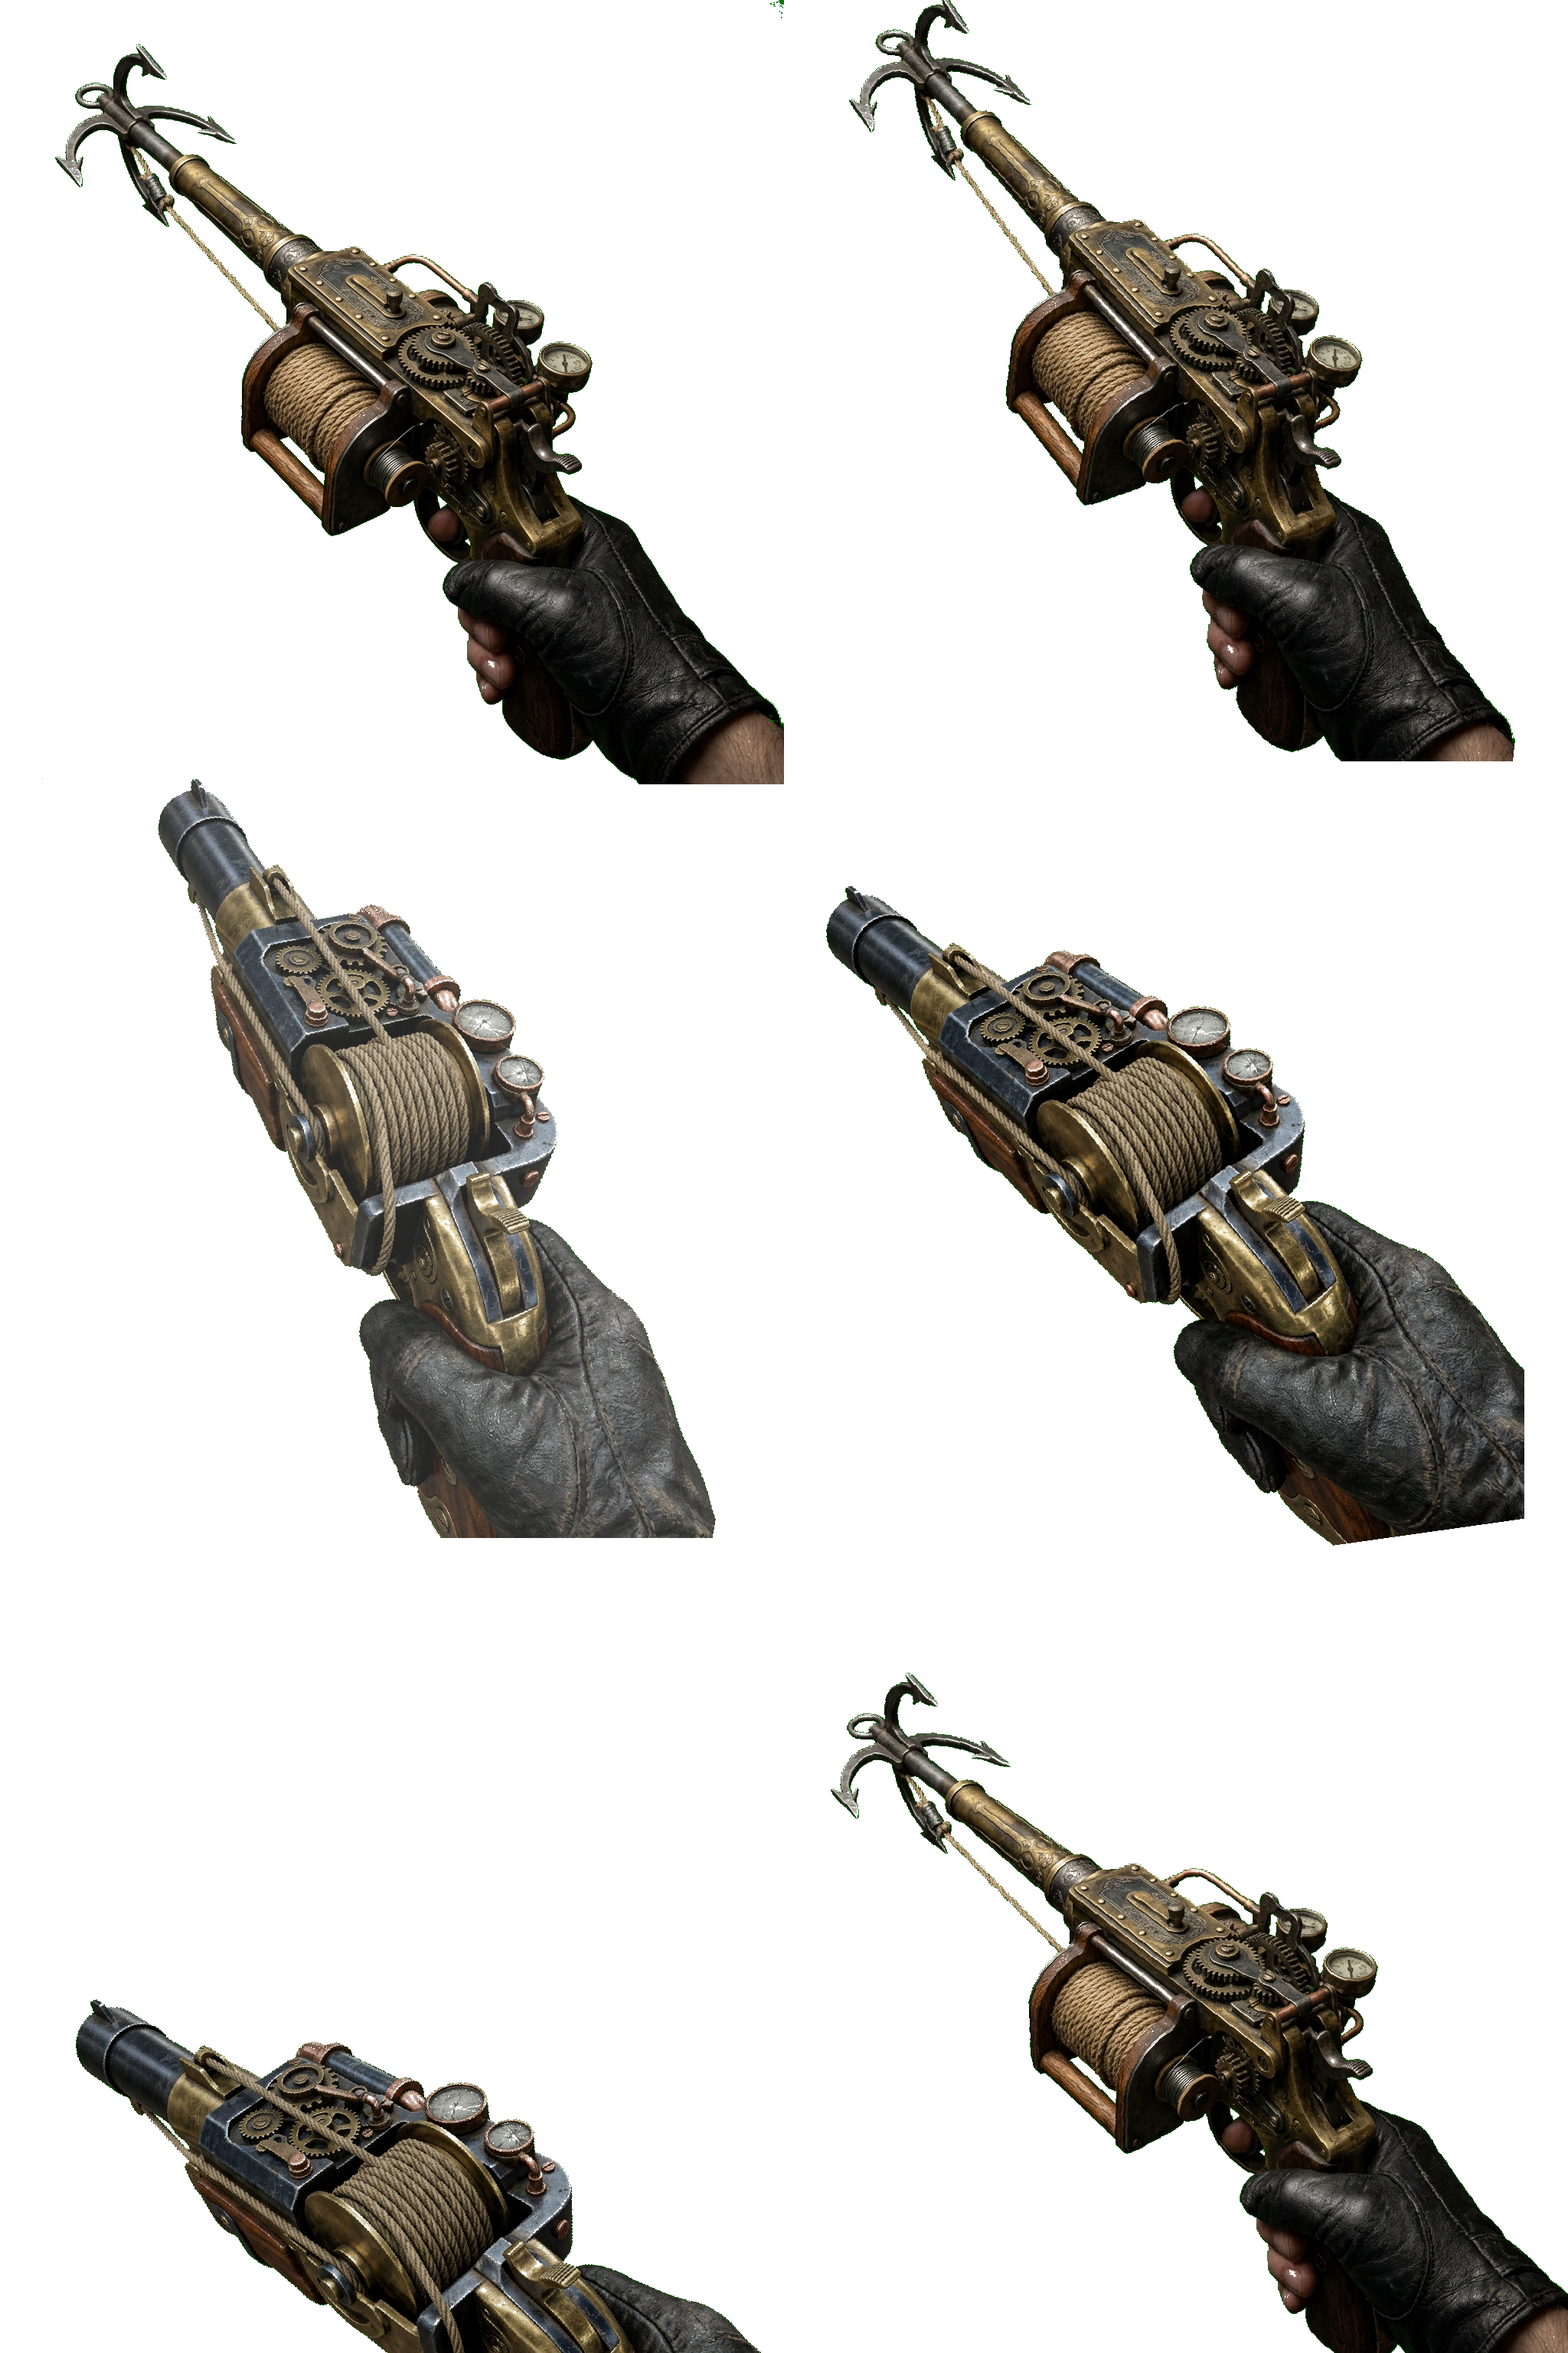
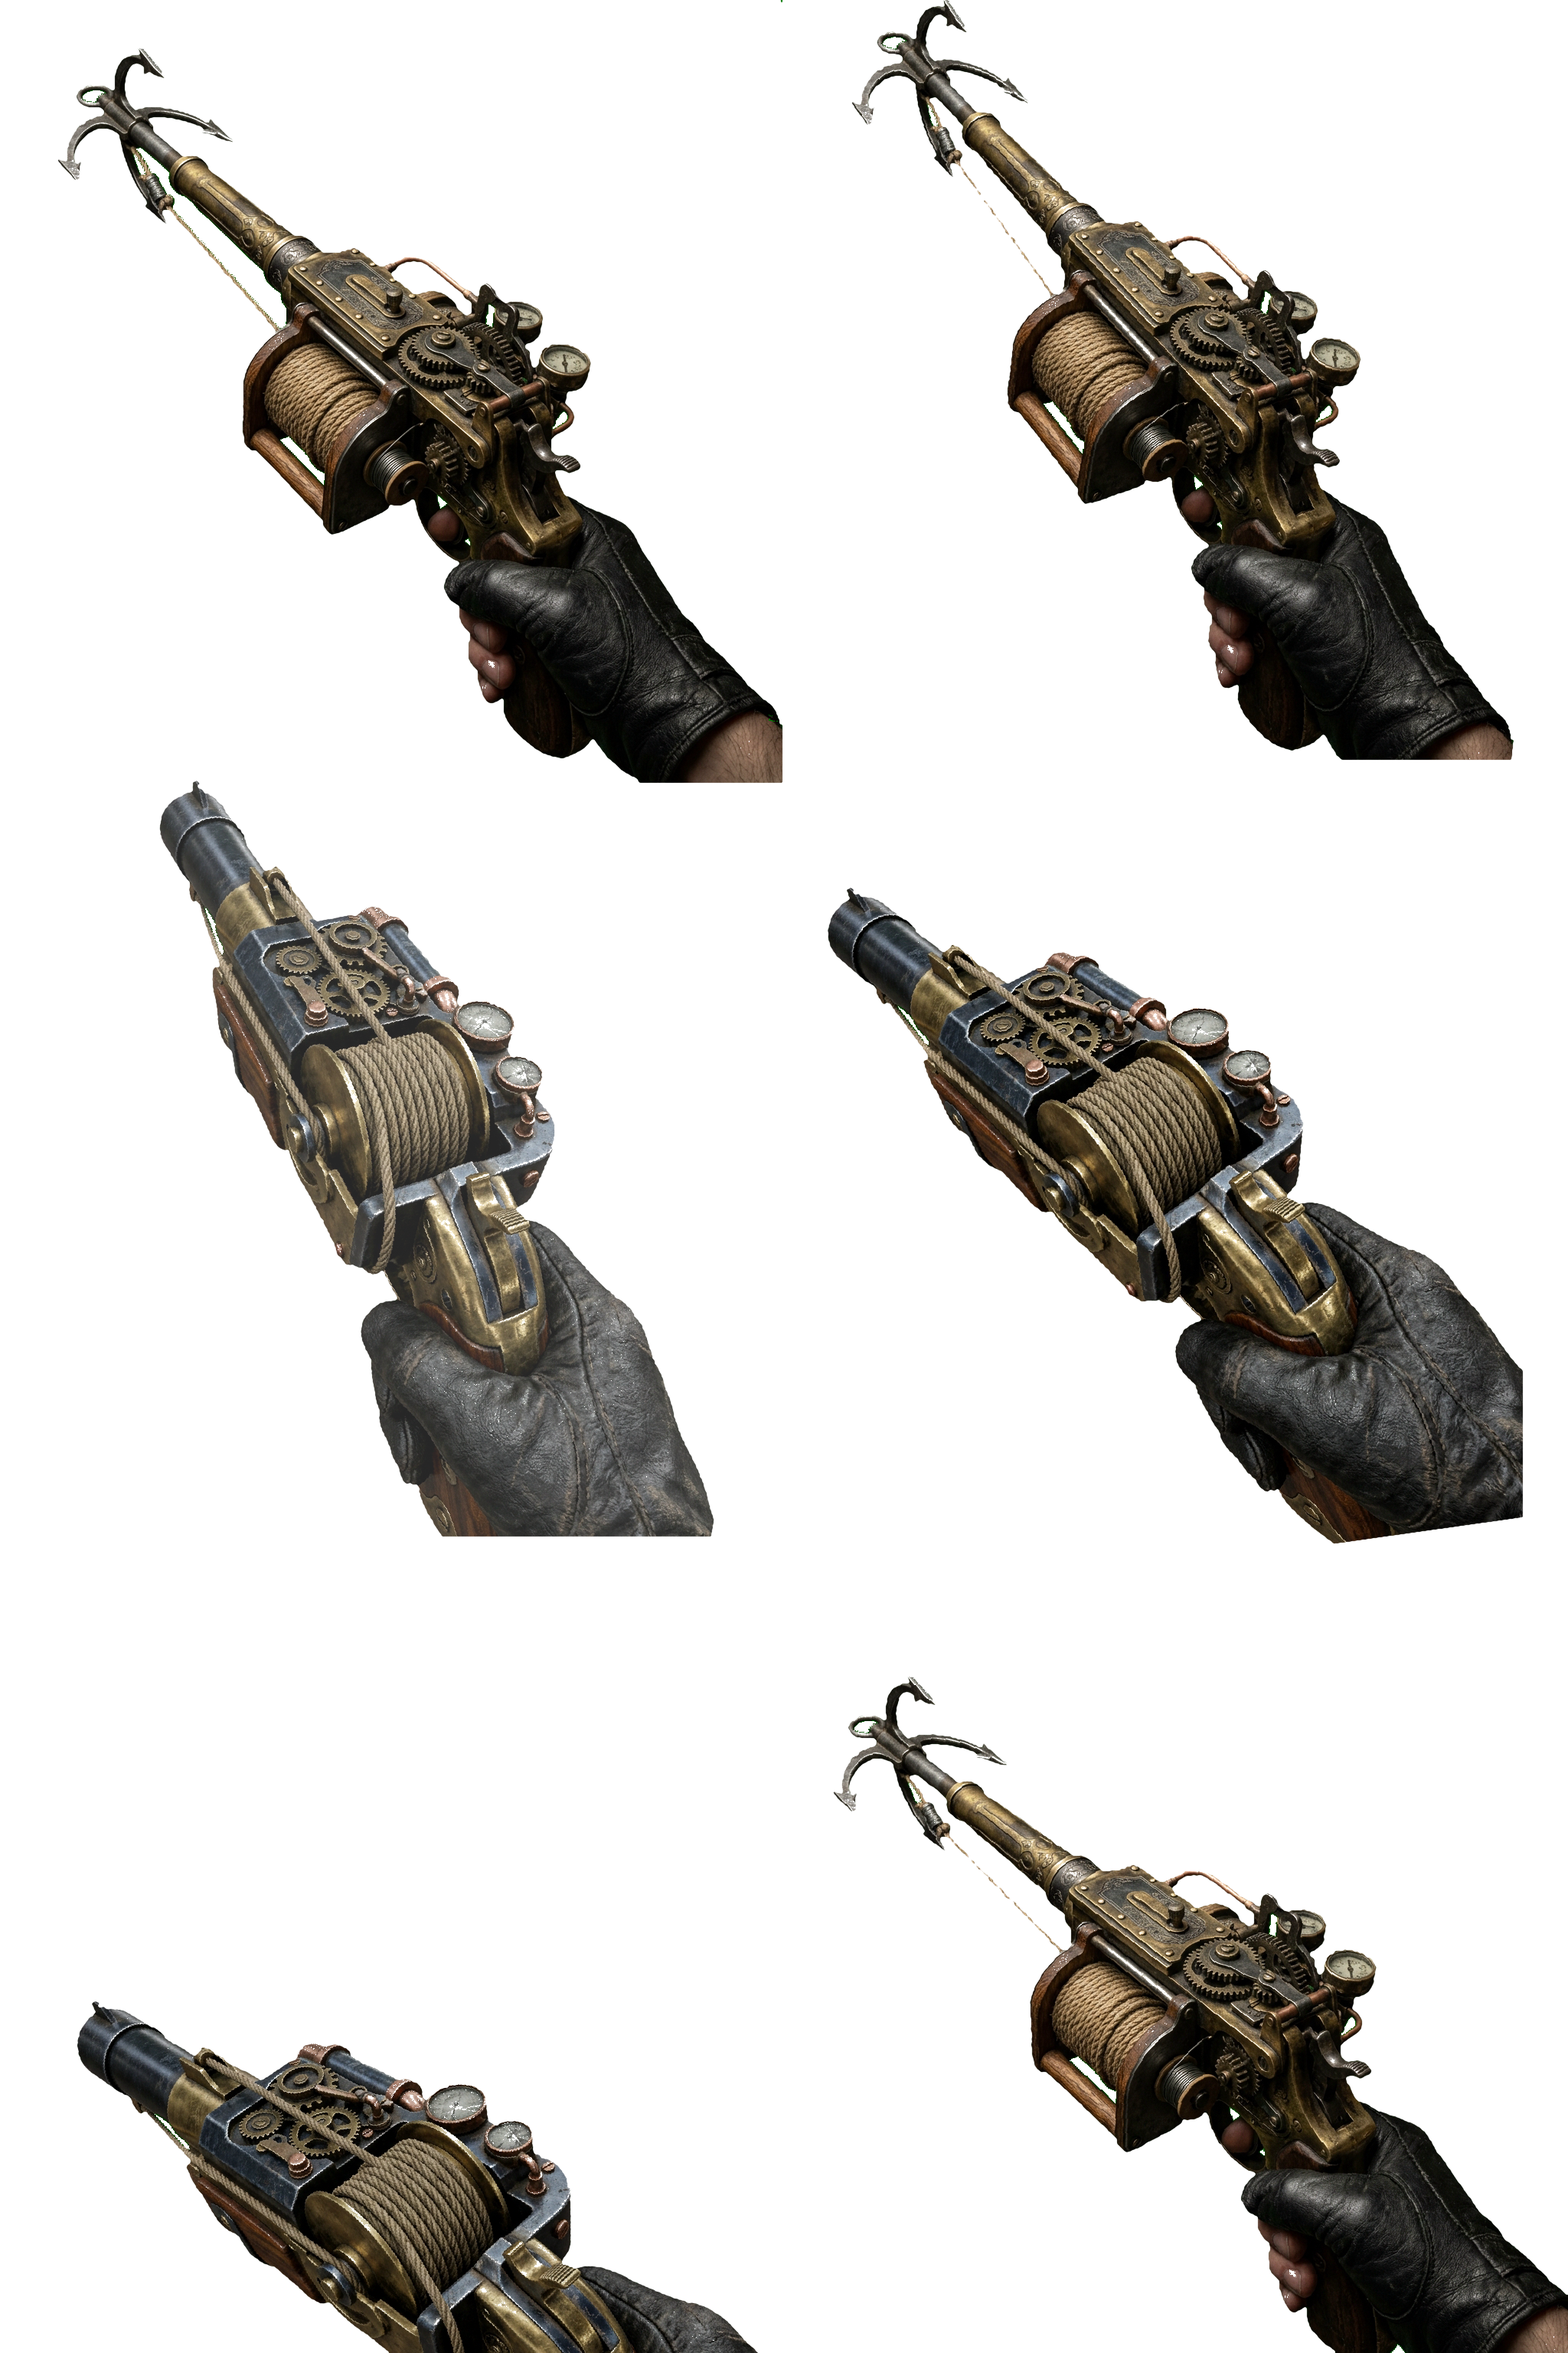
docs: update AGENTS.md with real project structure + update grapplegun sprite

Changed region(s): [[0.6562, 0.8125, 0.6875, 0.8438], [0.625, 0.7812, 0.6562, 0.8125]]

diff --git a/AGENTS.md b/AGENTS.md
@@ -1,7 +1,7 @@
 # AGENTS.md
 
 ## Project
-Static-client Zombie FPS built with Three.js. Single-player browser game.
+Static-client Zombie FPS built with Three.js. Single-player browser game set in an apocalyptic 1960s village.
 
 ## Setup
 - No build tools, no package manager. Just serve the root directory with any static file server.
@@ -9,26 +9,25 @@ Static-client Zombie FPS built with Three.js. Single-player browser game.
 
 ## Dependencies
 - Three.js `0.160.0` loaded from CDN via `<script type="importmap">` — no `npm install` needed.
-- Imports use `three` and `three/addons/` bare specifiers (e.g. `three/addons/controls/PointerLockControls.js`).
+- Imports use `three` and `three/addons/` bare specifiers.
 
 ## Entrypoint
 - `index.html` → `game.js`
 
-## Files
-- `index.html` — HTML shell, menus, importmap
-- `style.css` — all styling
-- `game.js` — all game logic (referenced but not yet created)
-- `Novo Documento de Texto.txt` — empty, irrelevant
-- `package.json` — npm dependencies (icon libraries)
+## Core Systems
+- **Vertical Movement**: Functional Grappling Hook weapon (`fireGrappleHook`) and gravity-based jumping.
+- **3D Physics**: Collision system supports walking and jumping on obstacles (cars, buses, roofs) via `maxY` property in `barrierColliders`.
+- **Mystery Box**: Random weapon generator (1200 points). Includes Grappling Hook, Raygun, Alien Gun, etc.
+- **Weapons**: Hand-drawn 2D spritesheets with first-person perspective and animations.
 
-## Local Skills (`.opencode/skills/`)
-- `product-builder` — manage requirements and features
-- `ui-prompt-designer` — prepare structured design prompts
-- `ui-ux-design-intelligence` — analyze and suggest UI/UX improvements
-- `full-stack-developer` — orchestrate frontend/backend code
+## Key Files
+- `index.html` — HTML shell, menus, importmap
+- `src/game.js` — Main game loop and orchestration
+- `src/player.js` — Player movement, jumping, and grappling logic
+- `src/scene.js` — World generation, 1960s props, and 3D collision data
+- `src/weapon.js` — Weapon definitions, ammo states, and viewmodel rendering
+- `src/mysterybox.js` — Mystery Box logic and weapon roll system
+- `assets/armas/` — 2D weapon spritesheets
 
 ## Icon Libraries (npm)
-- `lucide` — vanilla JS icon library (web component `<i-lucide>`)
-- `phosphor-icons` — vanilla JS icon set (`phosphor-icons` CSS)
-- `remixicon` — icon font collection (CDN or npm)
-- `@hugeicons/core-free-icons` — free Hugeicons SVG icons
+- `lucide`, `phosphor-icons`, `remixicon`, `@hugeicons/core-free-icons`
